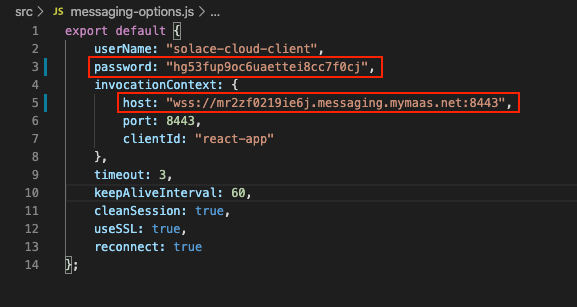
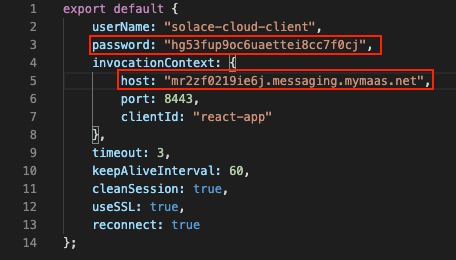
Fixed README

diff --git a/README.md b/README.md
@@ -37,7 +37,7 @@ You don’t have to ever use `eject`. The curated feature set is suitable for sm
 ![Step1](./setup-img/Step1.png)
 2) Scroll down until you see MQTT and open that tab.
 ![Step2](./setup-img/Step2.png)
-3) Within the tab, copy the contents of `Password` and `WebSocket Secured MQTT Host`.
+3) Within the tab, copy the contents of `Password` and `WebSocket Secured MQTT Host`, but make sure to only grab what's inside `wss://` and `:8443`.
 ![Step3](./setup-img/Step3-2.png)
 4) Open the repository in your favorite text editor and navigate to the `src` folder.
 ![Step4](./setup-img/Step4.png)
